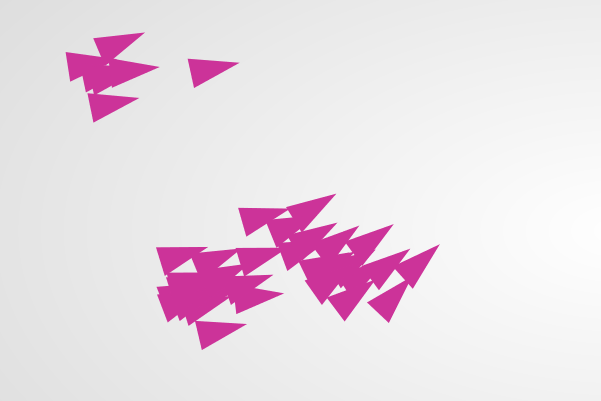
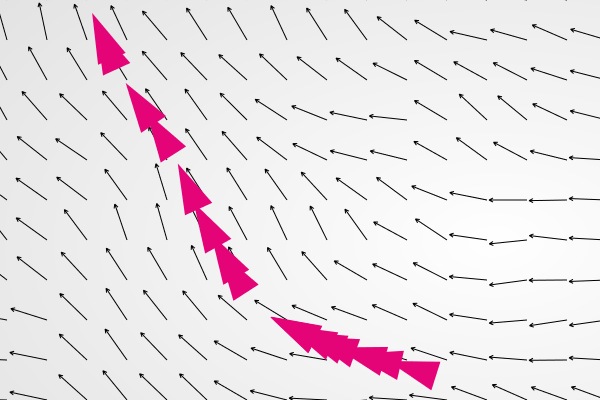
FlowField is now working correctly.

diff --git a/src/BB.FlowField2D.js b/src/BB.FlowField2D.js
@@ -1,21 +1,36 @@
-BB.FlowField2D = function(field, width, height) {
+/**
+ * @class BB.FlowField2D
+ * @param {Number} resolution [description]
+ * @param {Number} width      Width in pixels used to specify the 
+ * @param {[type]} height     Height in pixels used to specify
+ */
+BB.FlowField2D = function(resolution, width, height) {
 	
-	if (!(field instanceof Array) || field.length < 1 || ! (field[0] instanceof Array)) {
-		throw new Error('BB.FlowField2D: field must be a two dimensional array.');
+	if (typeof width !== 'number') {
+		throw new Error('BB.FlowField2D: resolution must be supplied and a number type.');
 	} else if (typeof width !== 'number') {
 		throw new Error('BB.FlowField2D: width must be supplied and a number type.');
 	} else if (typeof height !== 'number') {
 		throw new Error('BB.FlowField2D: height must be supplied and a number type.');
 	}
 
-	this.field  = field;
 	this.width  = width;
 	this.height = height;
-	this.rows = field[0].length;
-	this.cols = field.length;
-	this.resolution = this.width/this.cols;
-	console.log(this.resolution);
 
+	this.rows = height/resolution;
+	this.cols = width/resolution;
+
+	this.resolution = resolution;
+    this.field = [];
+
+    for (var i = 0; i < this.cols; i++) {
+      this.field[i] = [];
+      for (var j = 0; j < this.rows; j++) {
+        this.field[i][j] = new BB.Vector2(0, 0); 
+      }
+    }
+
+    this._debugImage = null;
 };
 
 BB.FlowField2D.Noise = function(resolution, width, height, noiseStep) {
@@ -28,25 +43,21 @@ BB.FlowField2D.Noise = function(resolution, width, height, noiseStep) {
 		throw new Error('BB.FlowField2D.Noise: height must be supplied and a number type.');
 	}
 
-	var noiseInc = (typeof noiseStep === 'number') ? noiseStep : 0.1;
+	BB.FlowField2D.call(this, resolution, width, height);
 
-	var field = [];
-	var cols = width/resolution;
-	var rows = height/resolution;
+	var noiseInc = (typeof noiseStep === 'number') ? noiseStep : 0.1;
 	
 	var xoff = 0;
     
-    for (var i = 0; i < cols; i++) {
+    for (var i = 0; i < this.cols; i++) {
       
       var yoff = 0;
-
-      field[i] = [];
       
-      for (var j = 0; j < rows; j++) {
+      for (var j = 0; j < this.rows; j++) {
 
         var theta = BB.MathUtils.map(BB.MathUtils.noise(xoff, yoff), 0, 1, 0, Math.PI * 2);
 
-        field[i][j] = new BB.Vector2(Math.cos(theta), Math.sin(theta));
+        this.field[i][j].set(Math.cos(theta), Math.sin(theta));
         
         yoff += noiseInc;
 
@@ -54,8 +65,6 @@ BB.FlowField2D.Noise = function(resolution, width, height, noiseStep) {
 
       xoff += noiseInc;
     }
-
-    BB.FlowField2D.call(this, field, width, height);
 };
 
 BB.FlowField2D.Noise.prototype = Object.create(BB.FlowField2D.prototype);
@@ -64,11 +73,72 @@ BB.FlowField2D.Noise.prototype.constructor = BB.FlowField2D;
 BB.FlowField2D.prototype.lookup = function(x, y) {
 
     var column = Math.floor(BB.MathUtils.clamp(x/this.resolution, 0, this.cols - 1));
-    console.log(x, this.resolution, this.cols, column);
     var row = Math.floor(BB.MathUtils.clamp(y/this.resolution, 0, this.rows - 1));
     return this.field[column][row].clone();
 };
 
-BB.FlowField2D.prototype.drawDebug = function(context) {
+BB.FlowField2D.prototype.drawDebug = function(context, x, y, width, height) {
 
+	// lazy load the image
+	if (this._debugImage === null ||
+		this._debugImageWidth !== width ||
+		this._debugImageHeight !== height) {
+
+		this._debugImage = new Image();
+		this._debugImageWidth = width;
+		this._debugImageHeight = height;
+
+		var canvas = document.createElement('canvas');
+		canvas.width = this.width;
+		canvas.height = this.height;
+
+		var ctx = canvas.getContext('2d');
+
+		for (var i = 0; i < this.cols; i++) {
+	    	
+	    	for (var j = 0; j < this.rows; j++) {
+	        	
+	        	ctx.save();
+	        	ctx.lineWidth = 0.5;
+	        	ctx.strokeStyle = "#000"
+	        	
+	        	//drawVector(this.field[i][j],i*this.resolution,j*this.resolution,this.resolution-2);
+
+			    var arrowsize = 4;
+			    // Translate to location to render vector
+			    ctx.translate(i * this.resolution, j * this.resolution);
+			    
+			    // Call vector heading function to get direction (note that pointing to the right is a heading of 0) and rotate
+			    ctx.rotate(Math.atan2(this.field[i][j].y, this.field[i][j].x));
+			
+			    // Calculate length of vector & scale it to be bigger or smaller if necessary
+			    var len = this.field[i][j].length() * this.resolution-2;
+			    
+			    // Draw three lines to make an arrow (draw pointing up since we've rotate to the proper direction)
+			    ctx.moveTo(0, 0);
+			    ctx.lineTo(len, 0);
+			    
+			    // arrows
+			    ctx.moveTo(len, 0);
+			    ctx.lineTo(len - arrowsize, arrowsize/2);
+			    ctx.moveTo(len, 0);
+			    ctx.lineTo(len - arrowsize, -arrowsize/2);
+
+			    ctx.restore();
+	      	}
+	    }
+
+	    ctx.stroke();
+
+	    this._debugImage.src = canvas.toDataURL();
+	    this._debugImage.onload = function() {
+	    	this.isLoaded = true;
+	    }
+
+	} else {
+
+		if (this._debugImage.isLoaded) {
+			context.drawImage(this._debugImage, x, y, width, height);
+		}
+	}
 };

diff --git a/examples/basic/flow-field/main.js b/examples/basic/flow-field/main.js
@@ -47,6 +47,8 @@ function update() {
 
     for (var i = 0; i < agents.length; i++) {
 
+        agents[i].applyForce(flowField.lookup(agents[i].position.x, agents[i].position.y));
+        
         agents[i].update();
 
         // atari style boarders
@@ -70,6 +72,8 @@ function update() {
 function draw() {
     
     ctx.clearRect(0,0,WIDTH,HEIGHT);
+
+    flowField.drawDebug(ctx, 0, 0, WIDTH, HEIGHT);
 
     var width = 30;
     var height = 50;
